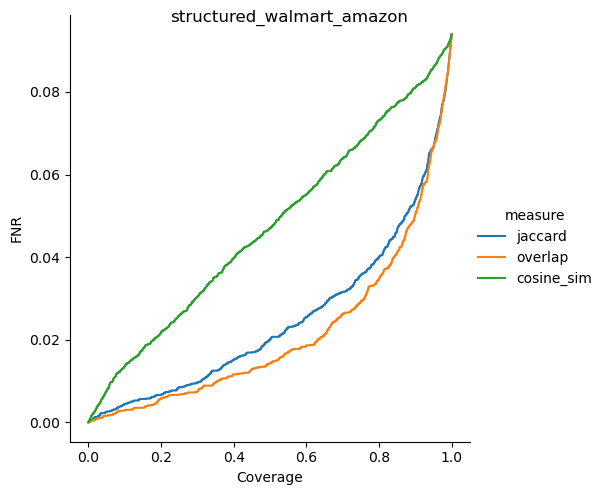
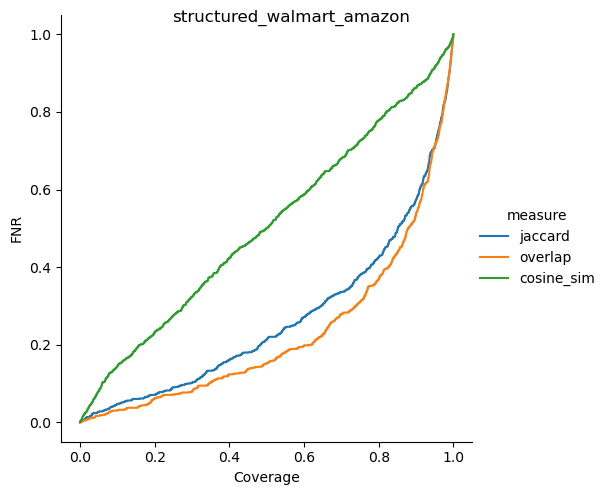
Fix fnr calculation, plot max possbile recall

diff --git a/preclassify_eval.py b/preclassify_eval.py
@@ -5,15 +5,16 @@ from pathlib import Path
 def get_stat_functions(similarities: pd.DataFrame, sim_name: str):
     # Sort the DataFrame by the specified column in ascending order
     similarities.sort_values(by=sim_name, ascending=True, inplace=True)
-    N_total = len(similarities)
+    n_total = len(similarities)
+    n_positive = similarities["label"].sum()
     n_fn = 0
     stats = [(0, 0, 0, 0, 0)]
     for i, (_, row) in enumerate(similarities.iterrows()):
         if row["label"] == 1:
             n_fn += 1
-        coverage = (i + 1) / N_total
+        coverage = (i + 1) / n_total
         risk = n_fn / (i + 1)
-        fnr = n_fn / N_total
+        fnr = n_fn / n_positive
         stats.append((i + 1, n_fn, coverage, risk, fnr))
     return stats
 
@@ -53,4 +54,6 @@ if __name__ == "__main__":
             "fnr",
         ],
     )
+    # add column max_tpr = 1 - fnr
+    df["max_tpr"] = 1 - df["fnr"]
     df.to_csv("eval/missclassifications.csv", index=False)

diff --git a/preclassify_vis.py b/preclassify_vis.py
@@ -57,6 +57,12 @@ if __name__ == "__main__":
             "xlabel": "Coverage",
             "ylabel": "FNR",
         },
+        "coverage_max_tpr": {
+            "x": "coverage",
+            "y": "max_tpr",
+            "xlabel": "Coverage",
+            "ylabel": "Max. Possible Recall",
+        },
     }
 
     df = pd.read_csv("eval/missclassifications.csv")
